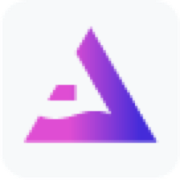
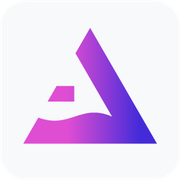
Align brand assets with the official styleguide
Styleguide (corpo_design/.../APX-REVOPS_Styleguide.ai) analyzed against
the site design system. User ruling: site keeps its violet gradient
(#8E2DE2->#4A00E0); the logo carries its own styleguide ramp. Warm
neutrals and Satoshi stay (the guide scopes black/white and Quantify
Bold to logo reproduction only).

Asset fixes from the guide:
- footer now uses the official white horizontal lockup as SVG
  (apx-logo-horizontal-white.svg, 1 KB); old APX_WHITE.webp deleted
- favicon.ico (16/32/48) and apple-touch-icon.png regenerated from the
  styleguide light-squircle gradient icon (ICONS Element 45)
- APX_LOGO.png (JSON-LD/OG asset, 39 refs) re-exported from the
  official HORIZONTAL-VAR-2 color render, same 600x184 footprint

diff --git a/_includes/shared/footer.html b/_includes/shared/footer.html
@@ -22,7 +22,7 @@
     </div>
     <div class="mb-10 sm:mb-12">
       <a href="{{ t.urls.home | relative_url }}" aria-label="APX home" class="inline-flex items-center">
-        <img src="{{ '/assets/images/logos/APX_WHITE.webp' | relative_url }}" alt="APX" class="h-8 w-auto" loading="lazy" decoding="async" width="256" height="146">
+        <img src="{{ '/assets/images/logos/apx-logo-horizontal-white.svg' | relative_url }}" alt="APX" class="h-8 w-auto" loading="lazy" decoding="async" width="104" height="32">
       </a>
     </div>
     <div class="grid grid-cols-2 md:grid-cols-5 gap-8 sm:gap-10 md:gap-10 mb-16 sm:mb-20 md:mb-24">
